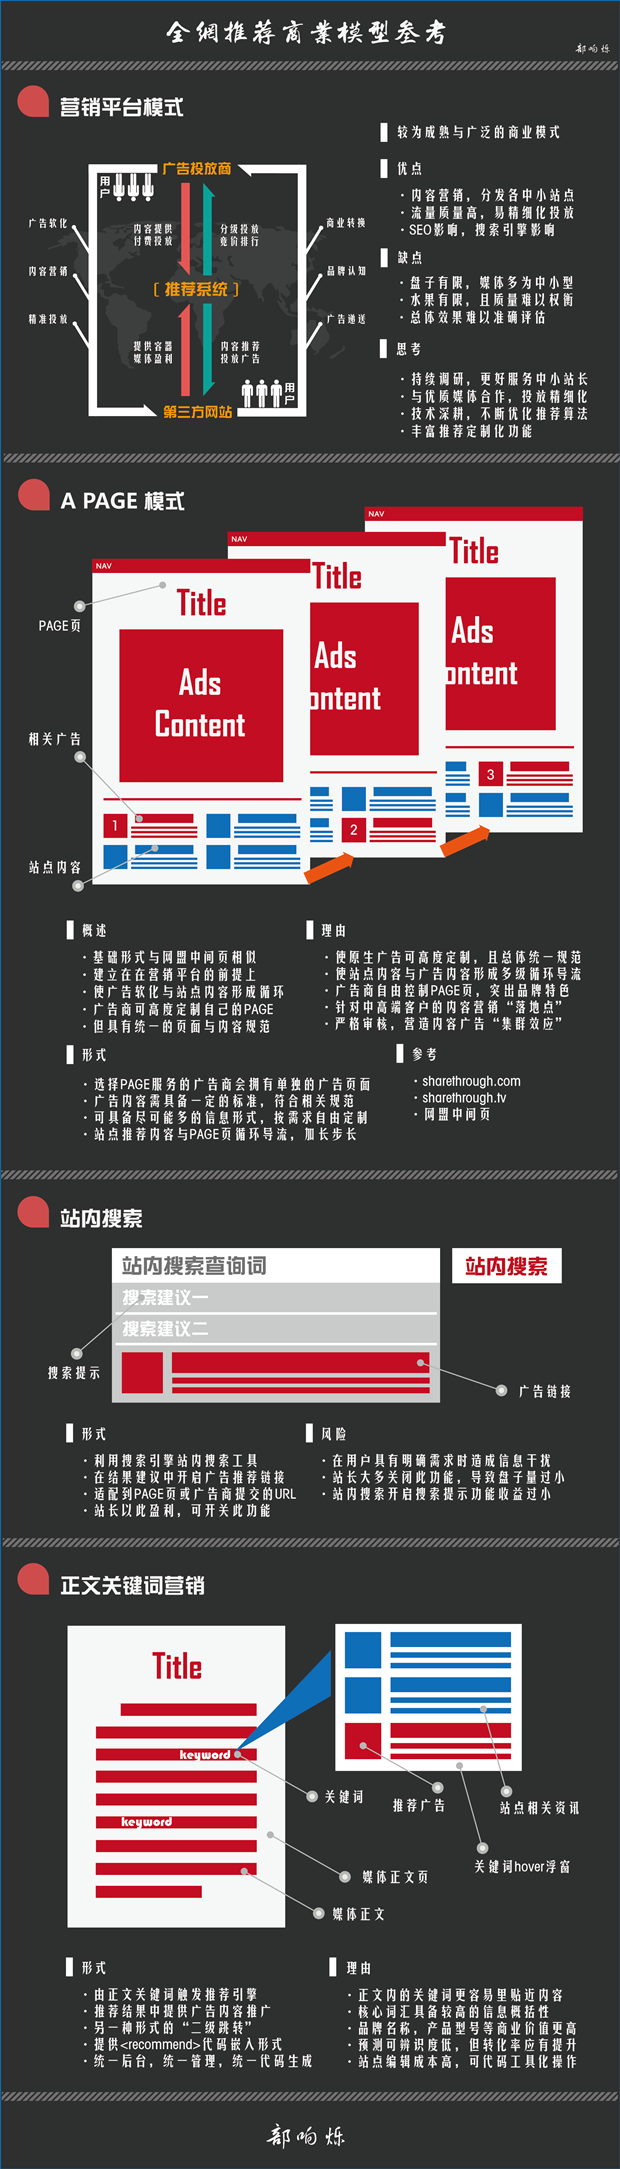
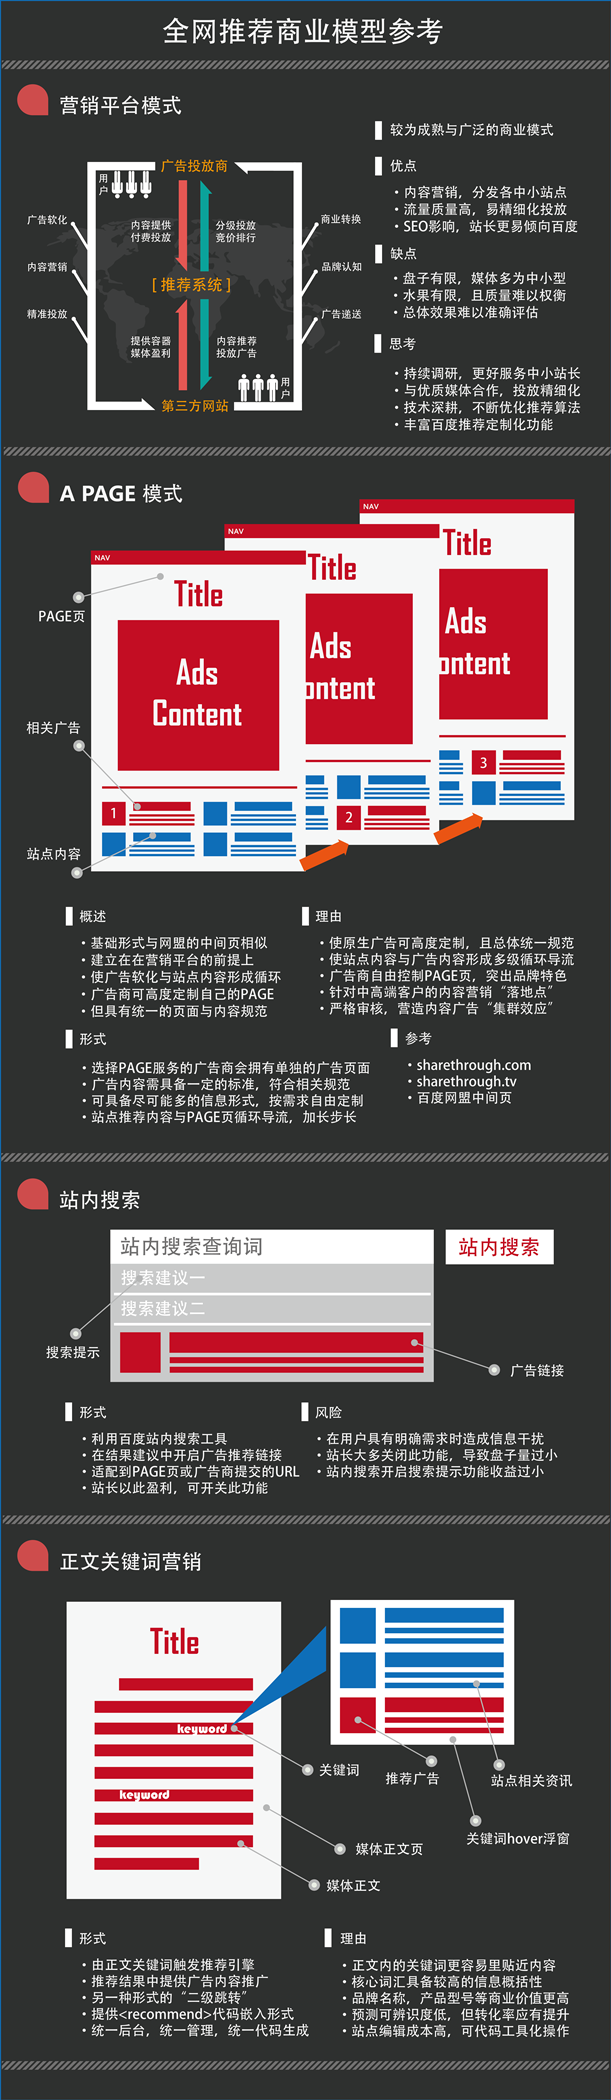
fix some style and change the title

Changed region(s): [[0.0, 0.0, 1.0, 0.9905], [0.9329, 0.0, 0.964, 0.031], [0.0311, 0.031, 0.0622, 0.0619]]

diff --git a/assets/css/screen.css b/assets/css/screen.css
@@ -36,12 +36,12 @@ p {
 }
 
 a {
-  color: #a00;
+  color: #000;
   text-decoration: none;
 }
 
 a:hover {
-  color: black;
+  color: #aaa;
   text-decoration: underline;
 }
 
@@ -192,6 +192,10 @@ ul.posts {
 	height: 27px;
 	margin-top: 27px;
   }
+  
+  #post a {
+	color: #a00 !important;
+  }
 
   #post h2 {
 	border-left: 9px solid #d3d8db;
@@ -219,7 +223,7 @@ ul.posts {
   }
 
   #post img {
-	margin: 10px 0px;
+	margin: 10px auto;
   }
 
   #post pre {

diff --git a/_posts/2014-04-28-news-event-timeline-design.md b/_posts/2014-04-28-news-event-timeline-design.md
@@ -1,6 +1,6 @@
 ---
 layout: post
-title: 新闻APP界面设计初试
+title: 新闻APP界面设计初试（图）
 category: design
 ---
 
@@ -10,16 +10,16 @@ category: design
 
 >主要参考雅虎新闻文摘，在对新闻主题内容的多角度信息补充基础上，UI适当调衡，增加了“事件脉络”部分，可以对新闻进行关注与追踪，从而持续性了解新闻后续发展，形成条理化新闻阅读，随时获取你关心的内容的最新进展
 
-![首屏](/assets/iNEWS/00.png)
+![首屏](/assets/img/iNEWS/00.png)
 
 
-![新闻列表](/assets/iNEWS/01.png)
+![新闻列表](/assets/img/iNEWS/01.png)
 
 
-![新闻页](/assets/iNEWS/02.png)
+![新闻页](/assets/img/iNEWS/02.png)
 
 
-![新闻内容延伸](/assets/iNEWS/03.png)
+![新闻内容延伸](/assets/img/iNEWS/03.png)
 
 
-![新闻内容延伸2](/assets/iNEWS/04.png)
+![新闻内容延伸2](/assets/img/iNEWS/04.png)

diff --git a/_posts/2013-11-24-the-design-of-pmarker.md b/_posts/2013-11-24-the-design-of-pmarker.md
@@ -1,6 +1,6 @@
 ---
 layout: post
-title: 第一次APP设计部分样图-Pmarker
+title: APP设计样图-Pmarker（图）
 category: design
 ---
 

diff --git a/_posts/2013-12-02-recommend-ads-model.md b/_posts/2013-12-02-recommend-ads-model.md
@@ -1,6 +1,6 @@
 ---
 layout: post
-title: 全网推荐模式设计简图
+title: 全网推荐模式设计（图）
 category: design
 ---
 
